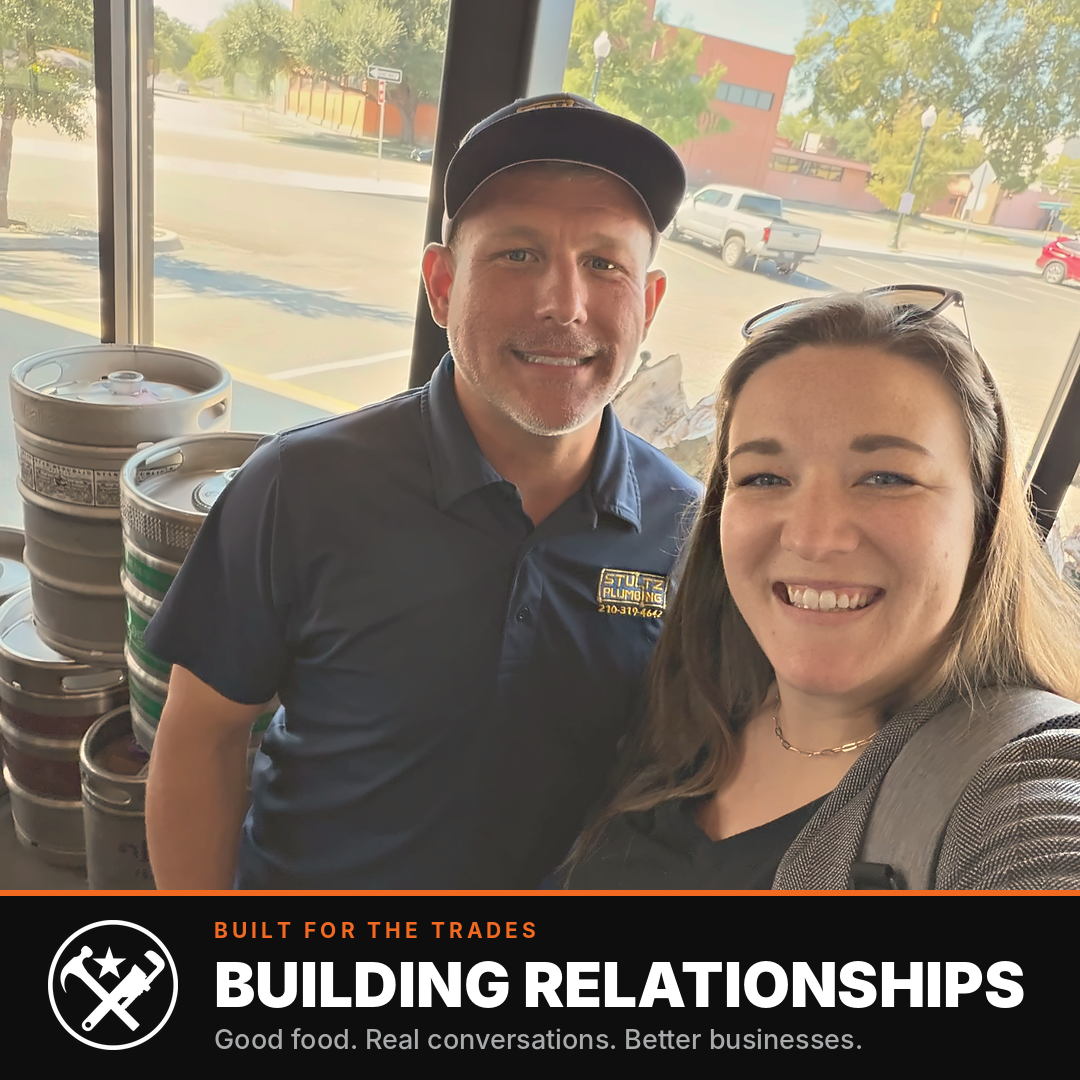
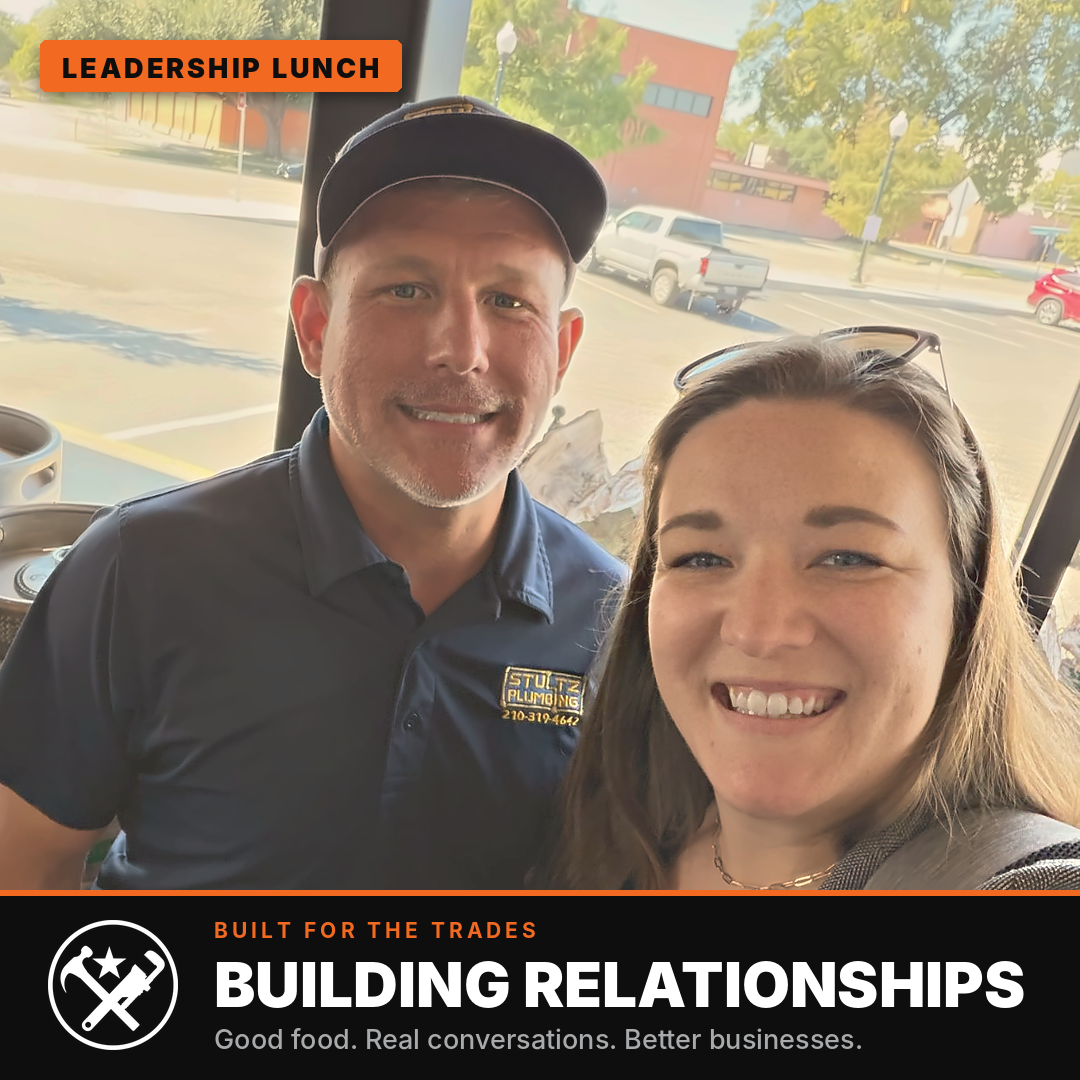
Brighten Julia's teeth, tighten crop, add corner tag
- Teeth: remove more yellow/brown cast (per-face teeth_yellow, lower
  tooth_L gate so shadowed side teeth match); shading preserved
- Crop in 20% centered on both people to trim empty space on the left
  (new zoom setting in crop_box/SLIDES)
- Add orange "LEADERSHIP LUNCH" corner tag (draw_tag; tag=None omits it)

Claude-Session: https://claude.ai/code/session_01S2DvsM7J99RSaBQsJzDE5i

diff --git a/scripts/brand_photos.py b/scripts/brand_photos.py
@@ -60,7 +60,9 @@ SELFIE_RETOUCH = {
             "face": (1180, 1100, 172, 238),
             "avoid": [(1065, 1030, 82, 44), (1240, 1030, 82, 44), (1142, 1213, 95, 34)],
             "teeth": (1142, 1214, 58, 18),
-            "tooth_L": (40, 52),
+            "tooth_L": (34, 48),
+            "teeth_yellow": 0.55,
+            "teeth_lift": 4.0,
             "eyes": [(1065, 1048), (1240, 1048)],
             "lum_limit": None,
         },
@@ -76,7 +78,9 @@ SELFIE_RETOUCH = {
 SLIDES = [
     {
         "photo": ROOT / "photos" / "lunch-selfie-01.jpg",
-        "focus": (750, 1000),
+        "focus": (875, 915),     # centers Jacob and Julia
+        "zoom": 1.2,             # crop in 20%: trims the empty keg/window space on the left
+        "tag": "LEADERSHIP LUNCH",   # corner tag (None to omit)
         "retouch": SELFIE_RETOUCH,
         "headline": "BUILDING RELATIONSHIPS",
         "subline": "Good food. Real conversations. Better businesses.",
@@ -85,11 +89,12 @@ SLIDES = [
 ]
 
 
-def crop_box(img, w, h, focus):
-    """Largest w:h box that fits in img, centered on focus (clamped to the edges)."""
+def crop_box(img, w, h, focus, zoom=1.0):
+    """Largest w:h box that fits in img (shrunk by zoom), centered on focus, clamped to the edges."""
     iw, ih = img.size
     target = w / h
     cw, ch = (iw, int(iw / target)) if iw / ih < target else (int(ih * target), ih)
+    cw, ch = int(cw / zoom), int(ch / zoom)
     left = min(max(int(focus[0] - cw / 2), 0), iw - cw)
     top = min(max(int(focus[1] - ch / 2), 0), ih - ch)
     return (left, top, left + cw, top + ch)
@@ -110,9 +115,9 @@ def polish(img):
     return img
 
 
-def fit_photo(img, w, h, focus):
+def fit_photo(img, w, h, focus, zoom=1.0):
     """Crop, polish at full resolution, downscale, then sharpen for the smaller size."""
-    img = polish(img.crop(crop_box(img, w, h, focus))).resize((w, h), Image.LANCZOS)
+    img = polish(img.crop(crop_box(img, w, h, focus, zoom))).resize((w, h), Image.LANCZOS)
     return img.filter(ImageFilter.UnsharpMask(radius=1.0, percent=SHARPEN, threshold=2))
 
 
@@ -144,13 +149,31 @@ def fit_font(path, text, max_w, start, draw):
     return ImageFont.truetype(path, 20)
 
 
+def draw_tag(canvas, text, fill, ink, font_path, margin=40):
+    """Orange corner tag with a soft shadow, top-left (the 'category label' marketers use)."""
+    font = ImageFont.truetype(font_path, 27)
+    probe = ImageDraw.Draw(canvas)
+    tracking = 3
+    tw = sum(probe.textlength(ch, font=font) + tracking for ch in text) - tracking
+    pad_x, pad_y = 22, 14
+    box = (margin, margin, margin + int(tw) + pad_x * 2, margin + font.size + pad_y * 2 - 4)
+    shadow = Image.new("RGBA", canvas.size, (0, 0, 0, 0))
+    ImageDraw.Draw(shadow).rounded_rectangle((box[0], box[1] + 5, box[2], box[3] + 5), 6, fill=(0, 0, 0, 120))
+    canvas.paste(Image.alpha_composite(canvas.convert("RGBA"), shadow.filter(ImageFilter.GaussianBlur(7))).convert("RGB"))
+    d = ImageDraw.Draw(canvas)
+    d.rounded_rectangle(box, 6, fill=fill)
+    draw_tracked(d, (box[0] + pad_x, box[1] + pad_y - 3), text, font, ink, tracking)
+
+
 def render(slide):
     b = BRAND
     canvas = Image.new("RGB", (SIZE, SIZE), b["band"])
     photo = Image.open(slide["photo"]).convert("RGB")
     if slide.get("retouch"):
         photo = retouch(photo, slide["retouch"])
-    canvas.paste(fit_photo(photo, SIZE, SIZE - BAND_H, slide["focus"]), (0, 0))
+    canvas.paste(fit_photo(photo, SIZE, SIZE - BAND_H, slide["focus"], slide.get("zoom", 1.0)), (0, 0))
+    if slide.get("tag"):
+        draw_tag(canvas, slide["tag"], b["accent"], b["band"], b["font_head"])
 
     # Logo, vertically centered in the band
     logo_h = BAND_H - 60

diff --git a/scripts/retouch.py b/scripts/retouch.py
@@ -11,6 +11,7 @@ Coordinates in a spec are pixels of the ORIGINAL photo.
             "teeth": (cx, cy, rx, ry),        # search area for teeth (whitening is color-gated)
             "tooth_L": (lo, hi),              # optional: lightness gate (shadowed teeth need lower)
             "teeth_lift": 7.0,                # optional: lightness added to teeth
+            "teeth_yellow": 0.4,              # optional: fraction of yellow removed
             "eyes":  [(cx, cy), ...],         # eye centers
             "lum_limit": y or None,           # smooth skin luminance only above this y (spares beards)
         }],
@@ -103,7 +104,8 @@ def retouch(img, spec, debug=None):
         zone = _ellipse(shape, f["teeth"], 3)
         tooth = zone * _smooth(b - a, -3, 3) * _smooth(L, lo, hi)
         tooth = cv2.GaussianBlur(tooth, (0, 0), 1.0)
-        b -= TEETH_YELLOW * tooth * np.clip(b - 5, 0, None)
+        b -= f.get("teeth_yellow", TEETH_YELLOW) * tooth * np.clip(b - 5, 0, None)
+        a -= 0.25 * tooth * np.clip(a - 3, 0, None)   # less brown/orange cast
         L += f.get("teeth_lift", TEETH_LIFT) * tooth
         L = np.minimum(L, np.maximum(L - 0.0, 0) * (1 - tooth) + 82 * tooth)  # never blow teeth out to flat white
         dbg.setdefault("teeth", []).append(tooth)
